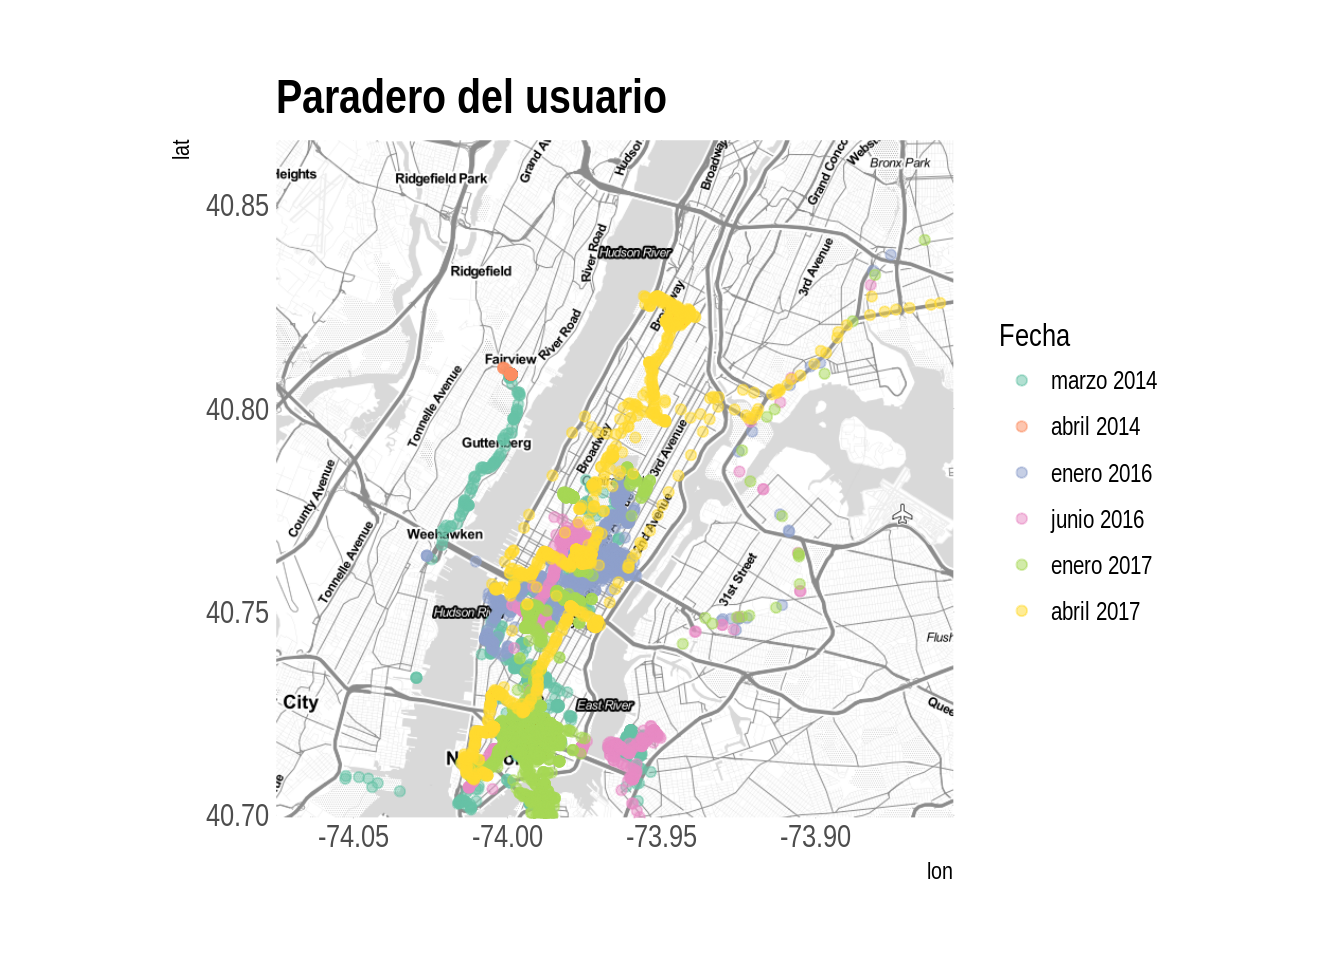
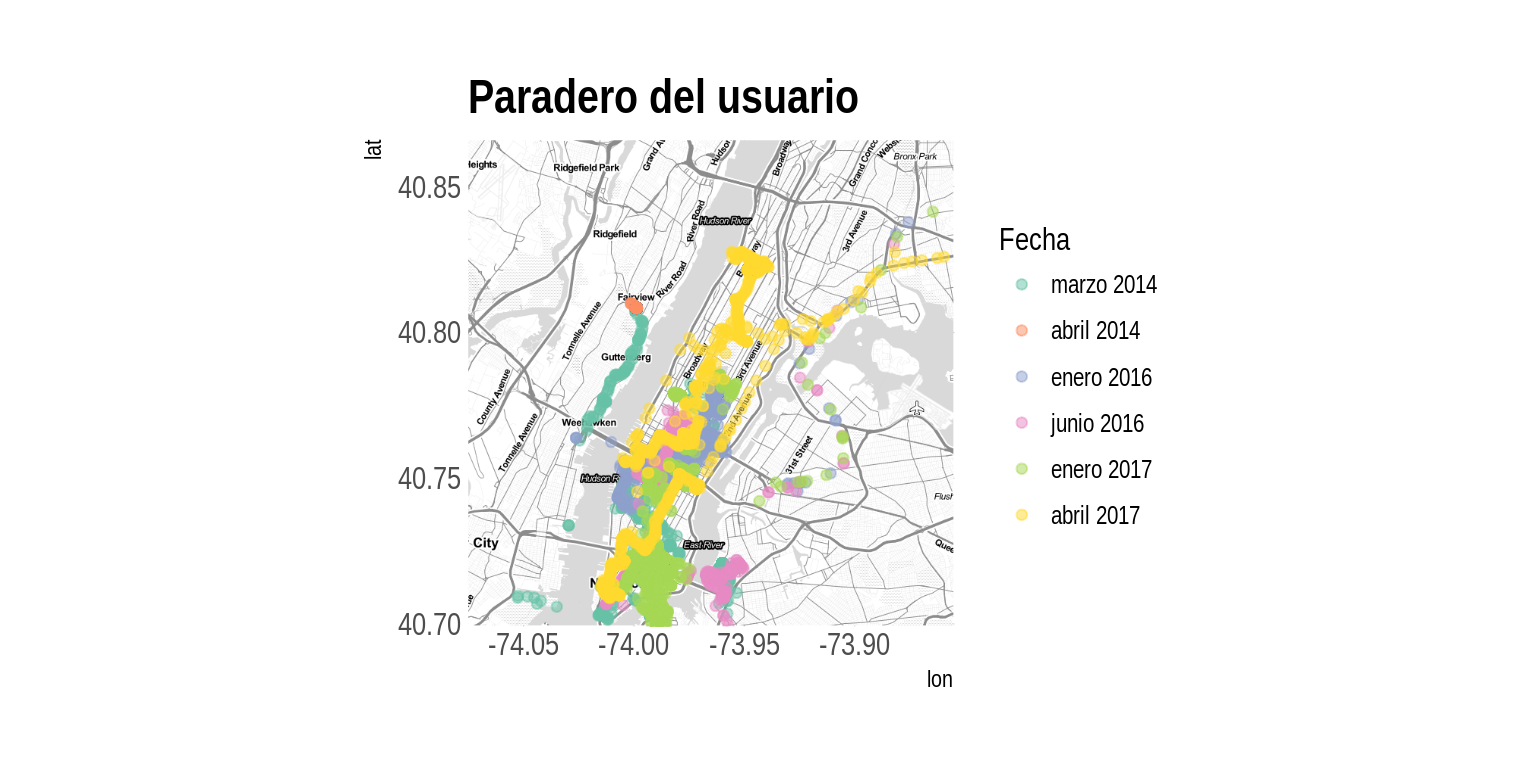
Blog update

diff --git a/post/visualizando-con-r-el-historial-de-ubicaciones-de-google-parte-ii/index.html b/post/visualizando-con-r-el-historial-de-ubicaciones-de-google-parte-ii/index.html
@@ -165,8 +165,33 @@ ga('send', 'pageview');
 
 
   
+    <div id="header-big-imgs" data-num-img=1 data-img-src-1="/post/img/midtown.jpg" ></div>
+  
 
-  <header class="header-section ">
+  <header class="header-section has-img">
+    
+      <div class="intro-header big-img">
+        
+        <div class="container">
+          <div class="row">
+            <div class="col-lg-8 col-lg-offset-2 col-md-10 col-md-offset-1">
+              <div class="post-heading">
+                <h1>Visualizando con R el historial de ubicaciones de Google (parte II)</h1>
+                  
+                  
+                    <span class="post-meta">
+  Posted on June 8, 2017
+  
+</span>
+
+
+                  
+              </div>
+            </div>
+          </div>
+        </div>
+        <span class="img-desc" style="display: inline;"></span>
+      </div>
     
     <div class="intro-header no-img">
       
@@ -230,7 +255,7 @@ ggmap(NY, extent = &quot;panel&quot;) +
   scale_color_brewer(type = &quot;qual&quot;, palette = &quot;Set2&quot;) +
   labs(title=&quot;Paradero del usuario&quot;,
        color = &quot;Fecha&quot;) </code></pre>
-<p><img src="/post/2017-06-08-visualizando-con-r-el-historial-de-ubicaciones-de-google-parte-ii_files/figure-html/unnamed-chunk-2-1.png" width="672" /></p>
+<p><img src="/post/2017-06-08-visualizando-con-r-el-historial-de-ubicaciones-de-google-parte-ii_files/figure-html/unnamed-chunk-2-1.png" width="768" /></p>
 <p>El mapa es claro, y muestra que en distintas ocasiones el usuario recorrió, en general, zonas diferentes de la ciudad. La mayor parte de su actividad transcurrió en Manhattan (en la visita de enero 2016 no abandonó la isla) con algunas visitas a New Jersey (al oeste del Río Hudson) y Brooklyn (al este del East River). En su última estadía se aventuró más al norte que de costumbre, pasando la mayor parte del tiempo en Harlem. Por la acumulación concentrada de puntos en ciertas parcelas, también es fácil deducir donde se ha alojado en cada ocasión.</p>
 <p>Lo interesante de un dataset con tanta resolución temporal y espacial es que podemos seguir al usuario cuando se mete dentro de los edificios. Por ejemplo, podemos saber si, y cuando, visita cualquiera de los destinos famosos en la ciudad. Por ejemplo, ¿alguna vez visito el Museo de Arte Moderno de Nueva York? Hagamos zoom en el MoMA, esta vez descartando los datos de latitud y longitud, que no hacen falta:</p>
 <pre class="r"><code>MoMA &lt;- get_map(&quot;MOMA, NY&quot;, zoom = 18)
@@ -249,10 +274,10 @@ ggmap(MoMA, extent = &quot;panel&quot;) +
         axis.text.y = element_blank(),
         axis.ticks = element_blank()) +
   coord_map()</code></pre>
-<p><img src="/post/2017-06-08-visualizando-con-r-el-historial-de-ubicaciones-de-google-parte-ii_files/figure-html/unnamed-chunk-3-1.png" width="672" /></p>
+<p><img src="/post/2017-06-08-visualizando-con-r-el-historial-de-ubicaciones-de-google-parte-ii_files/figure-html/unnamed-chunk-3-1.png" width="768" /></p>
 <p>Bastante fácil de leer. En enero del 2016, y otra vez en enero año siguiente, se registran visitas al museo. De hecho, sabiendo las fechas y el ala del edificio visitada, hasta podríamos saber que obras fueron apreciadas. Según el calendario del MoMA, en enero del 2017 se exhibió <a href="https://www.moma.org/calendar/exhibitions/1668">“A Revolutionary Impulse: The Rise of the Russian Avant-Garde”</a>. Hasta podemos ver como lucían las obras:</p>
 <div class="figure">
-<img src="img/MoMA.jpg" alt="Exhibición en el MoMA, enero 2017" />
+<img src="/post/img/MoMA.jpg" alt="Exhibición en el MoMA, enero 2017" />
 <p class="caption">Exhibición en el MoMA, enero 2017</p>
 </div>
 <p>Podríamos verificar si el usuario pasó por cualquier otra atracción. O restaurantes en particular. Iglesias, supermercados, monumentos. Si visitó una zona roja o cualquier otra área con fama cuestionable, y cuanto tiempo pasó allí. Todo eso y mucho más está guardado en los servers de Google, y nosotros lo entregamos voluntariamente!</p>
@@ -276,7 +301,7 @@ ggmap(BA, extent = &quot;panel&quot;) +
         axis.text.y = element_blank(),
         axis.ticks = element_blank()) +
   coord_map()</code></pre>
-<p><img src="/post/2017-06-08-visualizando-con-r-el-historial-de-ubicaciones-de-google-parte-ii_files/figure-html/unnamed-chunk-4-1.png" width="672" /></p>
+<p><img src="/post/2017-06-08-visualizando-con-r-el-historial-de-ubicaciones-de-google-parte-ii_files/figure-html/unnamed-chunk-4-1.png" width="768" /></p>
 <p>Vemos que nuestro querido usuario ha estado por todos lados (salvo el sur-oeste de la ciudad, que parece ser <em>terra incognita</em> para nuestro donante de datos), y que ha recorrido profusamente las arterias que comunican la ciudad con su área metropolitana. Pero no tenemos idea de donde vive, porque hay demasiado puntos sobre el mapa, y se hace imposible “leer” donde pasa la mayor parte de su tiempo.</p>
 <p>Vamos a recurrir a una técnica de visualización que se llama <em>hexagon binning</em>, útil cuando lo que queremos es encontrar los lugares donde la intensidad de una variable se destaca. En éste caso, vamos a dividir el espacio de la cuidad en hexágonos, asignarle a cada uno un valor asociado a la frecuencia de registros realizados desde allí, y buscar los que muestren valores altos.</p>
 <pre class="r"><code>library(hexbin)
@@ -299,7 +324,7 @@ ggmap(BA, extent = &quot;panel&quot;) +
   theme(axis.text.x = element_blank(),
         axis.text.y = element_blank(),
         axis.ticks = element_blank())</code></pre>
-<p><img src="/post/2017-06-08-visualizando-con-r-el-historial-de-ubicaciones-de-google-parte-ii_files/figure-html/unnamed-chunk-5-1.png" width="672" /></p>
+<p><img src="/post/2017-06-08-visualizando-con-r-el-historial-de-ubicaciones-de-google-parte-ii_files/figure-html/unnamed-chunk-5-1.png" width="768" /></p>
 <p>Bingo. El solitario hexágono de intensidad máxima señala el domicilio del usuario -o al menos, el lugar donde pasa la mayor parte de sus horas. Si hiciéramos zoom sobre el mapa podríamos ver la parcela donde vive, y por lo tanto su dirección exacta, pero nos vamos a abstener.</p>
 </div>
 <div id="descubriendo-habitos" class="section level2">
@@ -329,7 +354,7 @@ ggmap(BA, extent = &quot;panel&quot;) +
   # y eliminamos la leyenda
   guides(fill = FALSE) +
   facet_wrap(~year)  </code></pre>
-<p><img src="/post/2017-06-08-visualizando-con-r-el-historial-de-ubicaciones-de-google-parte-ii_files/figure-html/unnamed-chunk-6-1.png" width="672" /></p>
+<p><img src="/post/2017-06-08-visualizando-con-r-el-historial-de-ubicaciones-de-google-parte-ii_files/figure-html/unnamed-chunk-6-1.png" width="768" /></p>
 <p>Los resultados muestran una diferencia clara entre su actividad en los años 2011 y 2012, con una variedad de sitios visitados más reducida, en comparación con 2014 y 2015 cuando su rutina diaria parece haber sido mucho más variada. Su actividad está claramente concentrada en el área que corresponde al centro económico de la ciudad. Hace incursiones al exterior de la ciudad, hacia el norte, pero rara vez en otra dirección. En lo que va del 2017, sus radio de acción es notablemente más acotado: Su tiempo se reparte en dos regiones nítidamente demarcadas, sin presencia observable en otros sectores. En todo el año 2016 su celular no se reportó ni una sola vez desde los confines de la ciudad. Como ya habíamos notado en la <a href="https://bitsandbricks.github.io/post/visualizando-con-r-el-historial-de-ubicaciones-de-google-parte-i/">parte I</a> de ésta serie, estaba viviendo en otro país.</p>
 <p>Cómo planificador urbano, me causa vértigo imaginar todos los estudios que podríamos hacer sobre nuestras ciudades si tuviéramos acceso a la información que acumula Google: matrices origen/ destino de tránsito minuto a minuto, tendencias de actividad económica, recreativa, cultural, efecto en el tránsito peatonal y vehicular de cortes de servicio, cierre de calles y otros percances, estudios de adecuación del código de uso del suelo, e infinidad más. Claro que, aún más vértigo me da pensar todo lo que saben de nosotros, a nivel individual, no sólo Google sino los <a href="http://www.telam.com.ar/notas/201312/44925-las-principales-revelaciones-de-edward-snowden.html">servicios de inteligencia de los gobiernos que acceden a esos datos</a>. En fin.</p>
 <p>En la próxima (y final) entrega, vamos a reproducir los viajes del usuario entre ciudades, mostrando como podemos reconstruir su historial de viajes aéreos en base a sus registros de ubicación. Y con una linda visualización, por supuesto… si vamos a espiar, lo haremos con estilo.</p>
